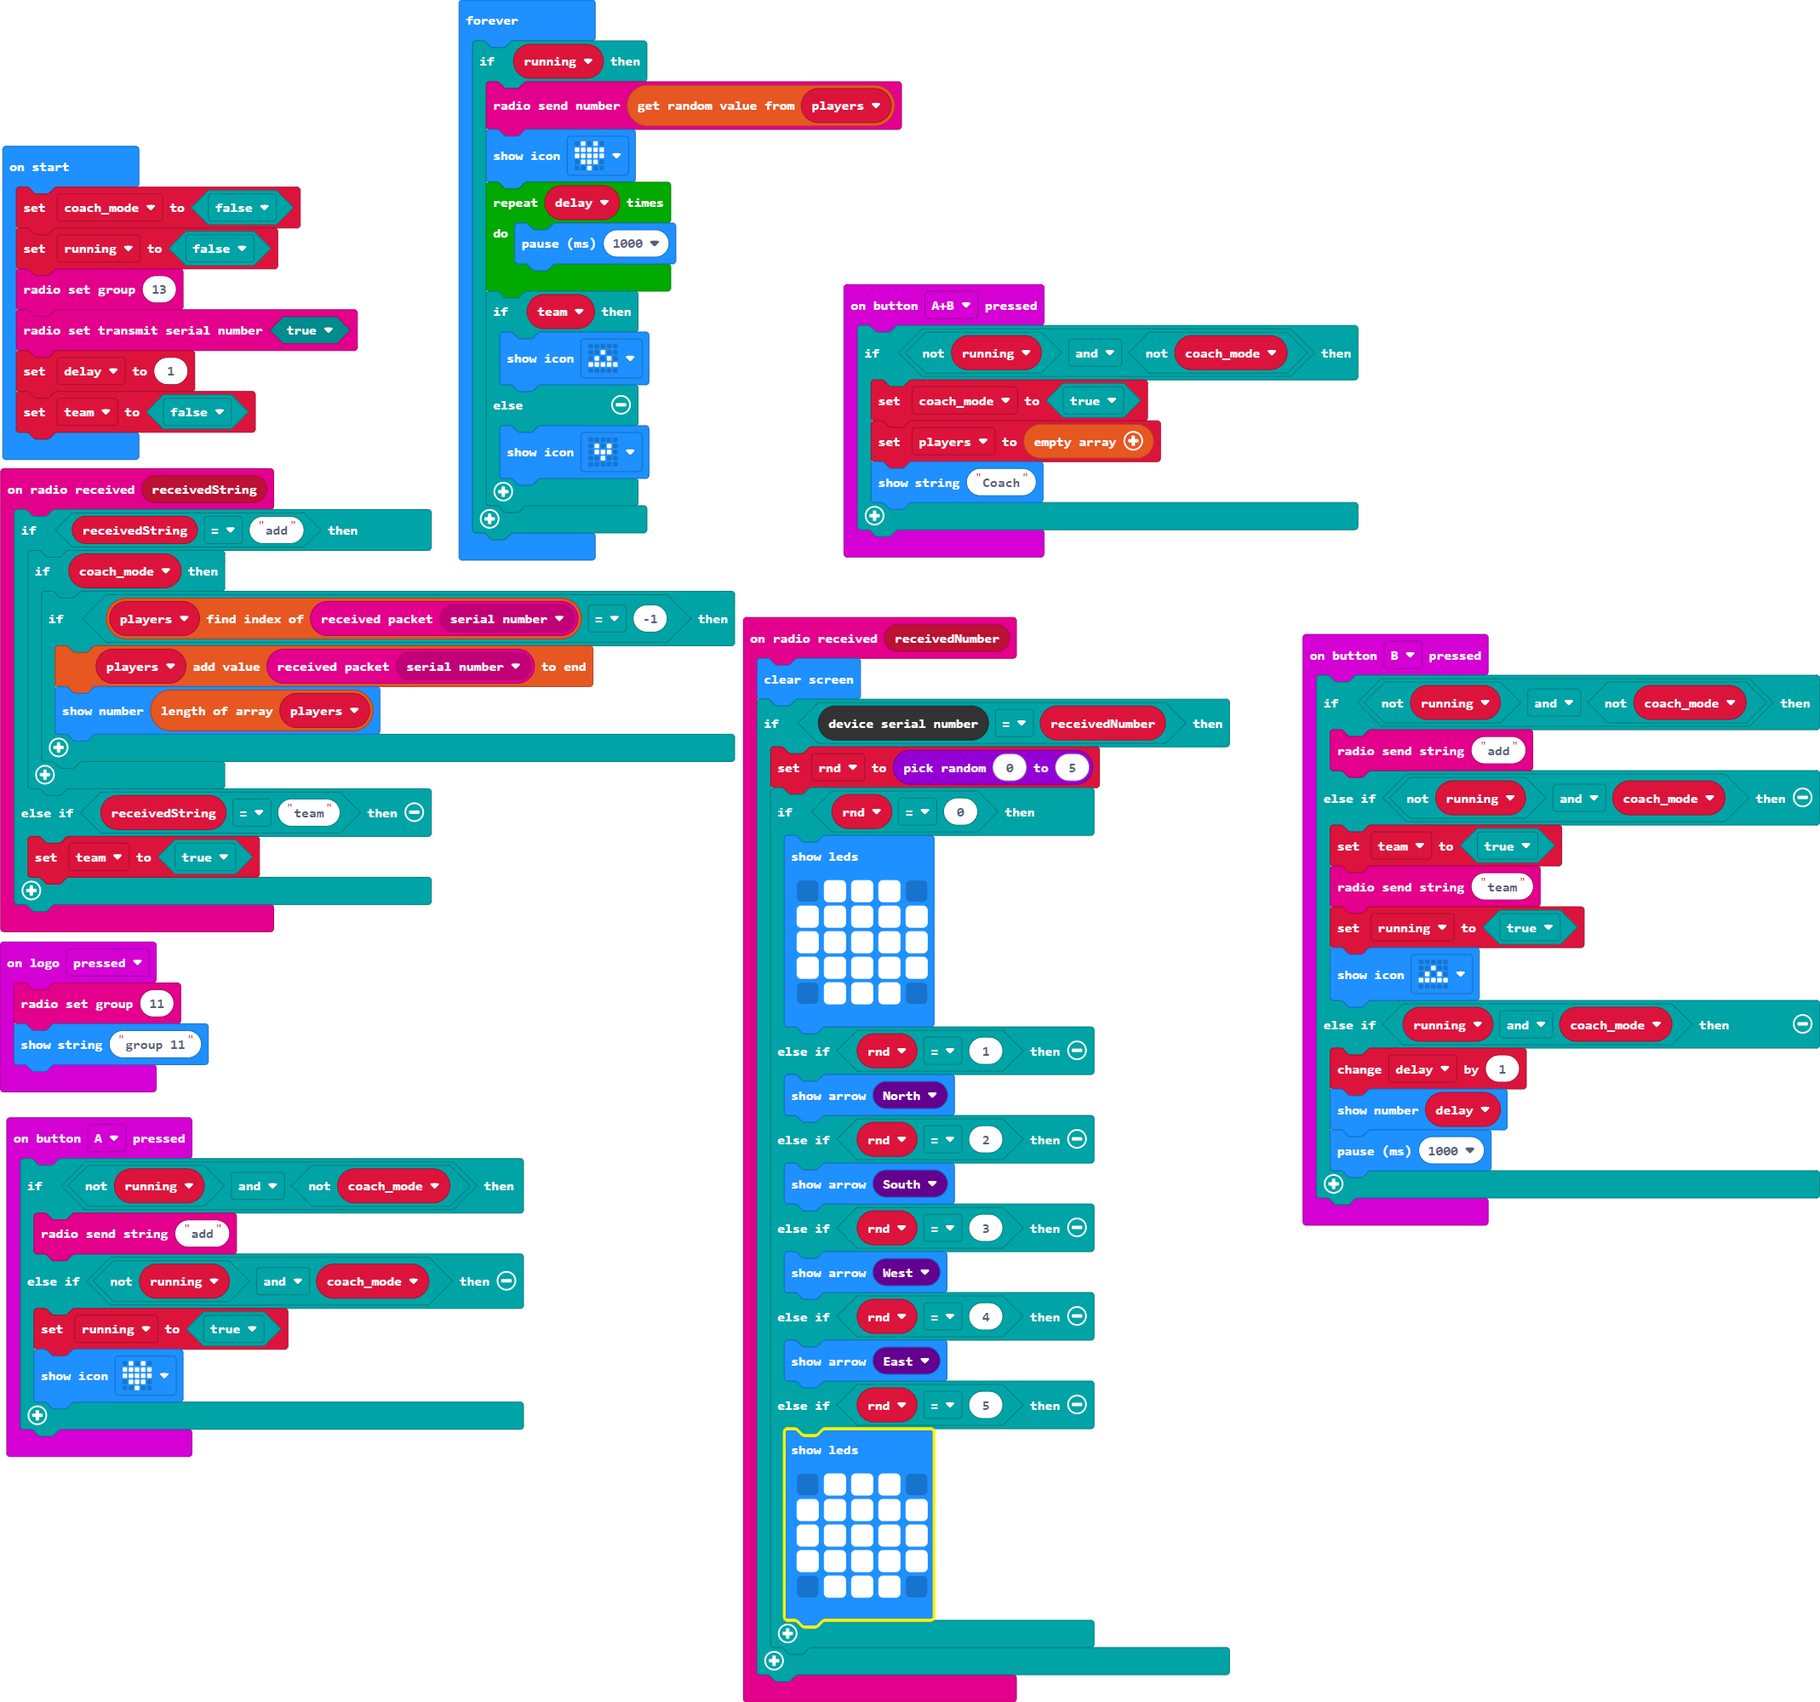
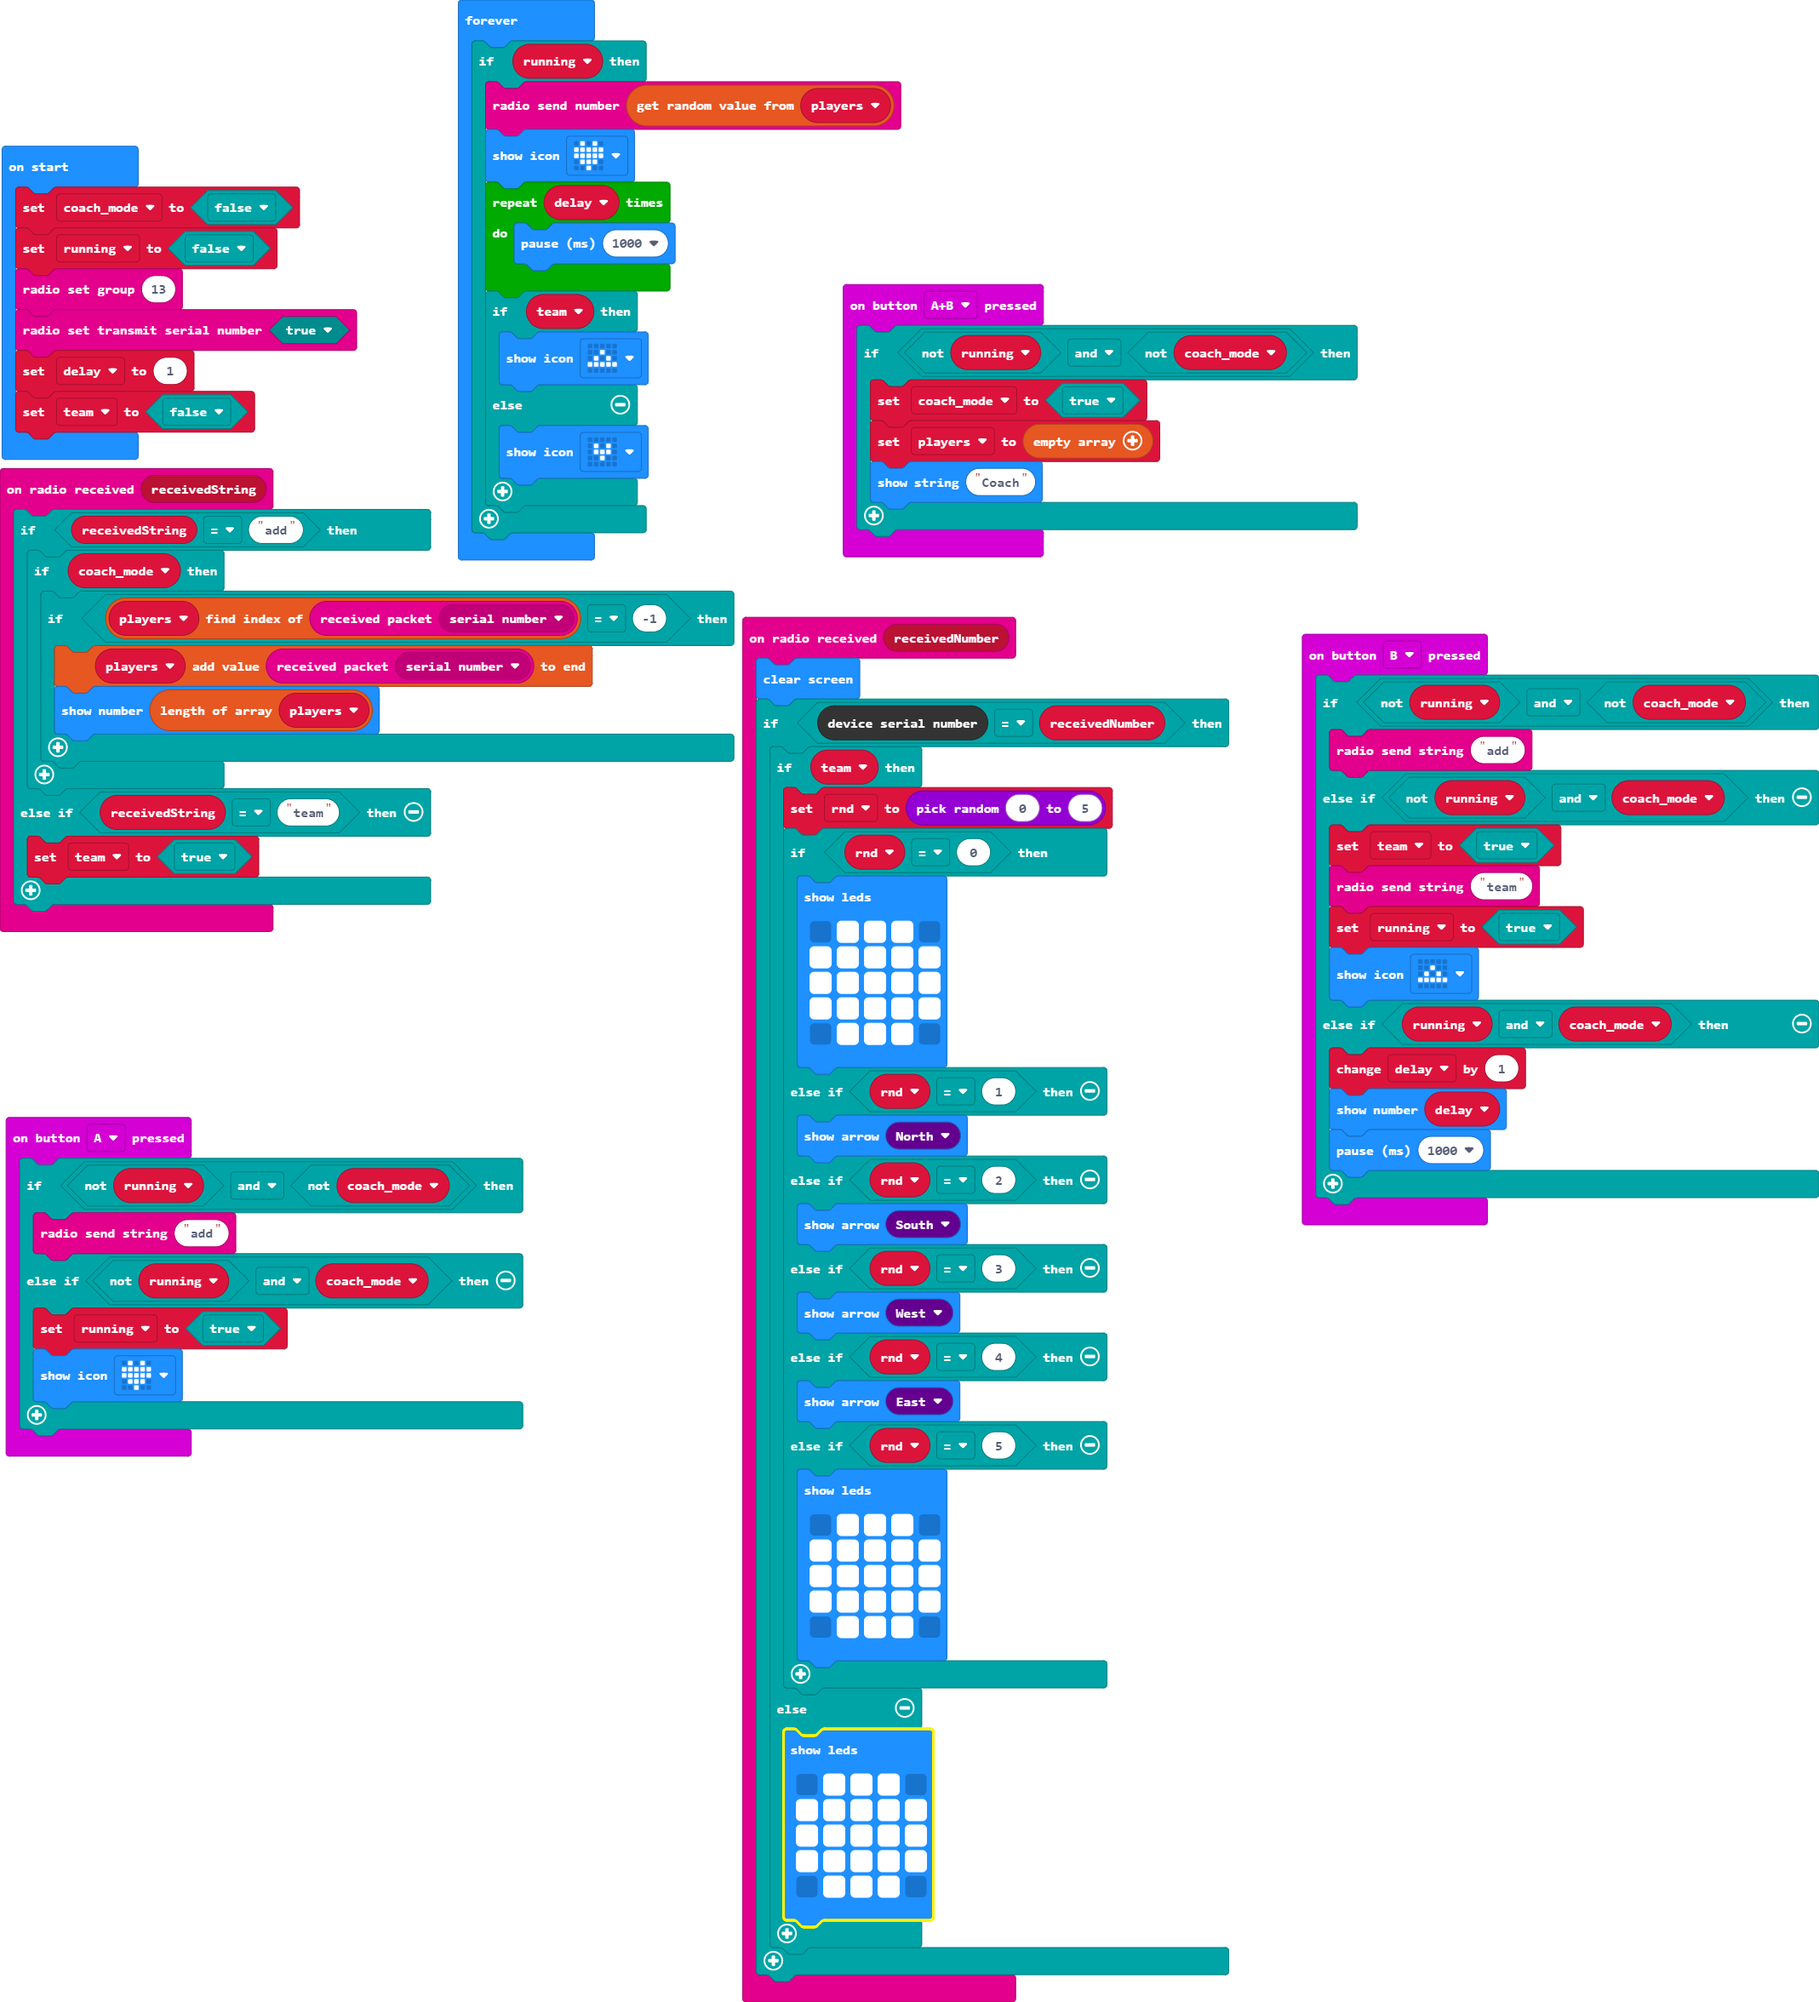
fixed bug with team value

diff --git a/main.ts b/main.ts
@@ -1,24 +1,34 @@
 radio.onReceivedNumber(function (receivedNumber) {
     basic.clearScreen()
     if (control.deviceSerialNumber() == receivedNumber) {
-        rnd = randint(0, 5)
-        if (rnd == 0) {
-            basic.showLeds(`
-                . # # # .
-                # # # # #
-                # # # # #
-                # # # # #
-                . # # # .
-                `)
-        } else if (rnd == 1) {
-            basic.showArrow(ArrowNames.North)
-        } else if (rnd == 2) {
-            basic.showArrow(ArrowNames.South)
-        } else if (rnd == 3) {
-            basic.showArrow(ArrowNames.West)
-        } else if (rnd == 4) {
-            basic.showArrow(ArrowNames.East)
-        } else if (rnd == 5) {
+        if (team) {
+            rnd = randint(0, 5)
+            if (rnd == 0) {
+                basic.showLeds(`
+                    . # # # .
+                    # # # # #
+                    # # # # #
+                    # # # # #
+                    . # # # .
+                    `)
+            } else if (rnd == 1) {
+                basic.showArrow(ArrowNames.North)
+            } else if (rnd == 2) {
+                basic.showArrow(ArrowNames.South)
+            } else if (rnd == 3) {
+                basic.showArrow(ArrowNames.West)
+            } else if (rnd == 4) {
+                basic.showArrow(ArrowNames.East)
+            } else if (rnd == 5) {
+                basic.showLeds(`
+                    . # # # .
+                    # # # # #
+                    # # # # #
+                    # # # # #
+                    . # # # .
+                    `)
+            }
+        } else {
             basic.showLeds(`
                 . # # # .
                 # # # # #
@@ -69,10 +79,6 @@ input.onButtonPressed(Button.B, function () {
         basic.showNumber(delay)
         basic.pause(1000)
     }
-})
-input.onLogoEvent(TouchButtonEvent.Pressed, function () {
-    radio.setGroup(11)
-    basic.showString("group 11")
 })
 let players: number[] = []
 let rnd = 0
